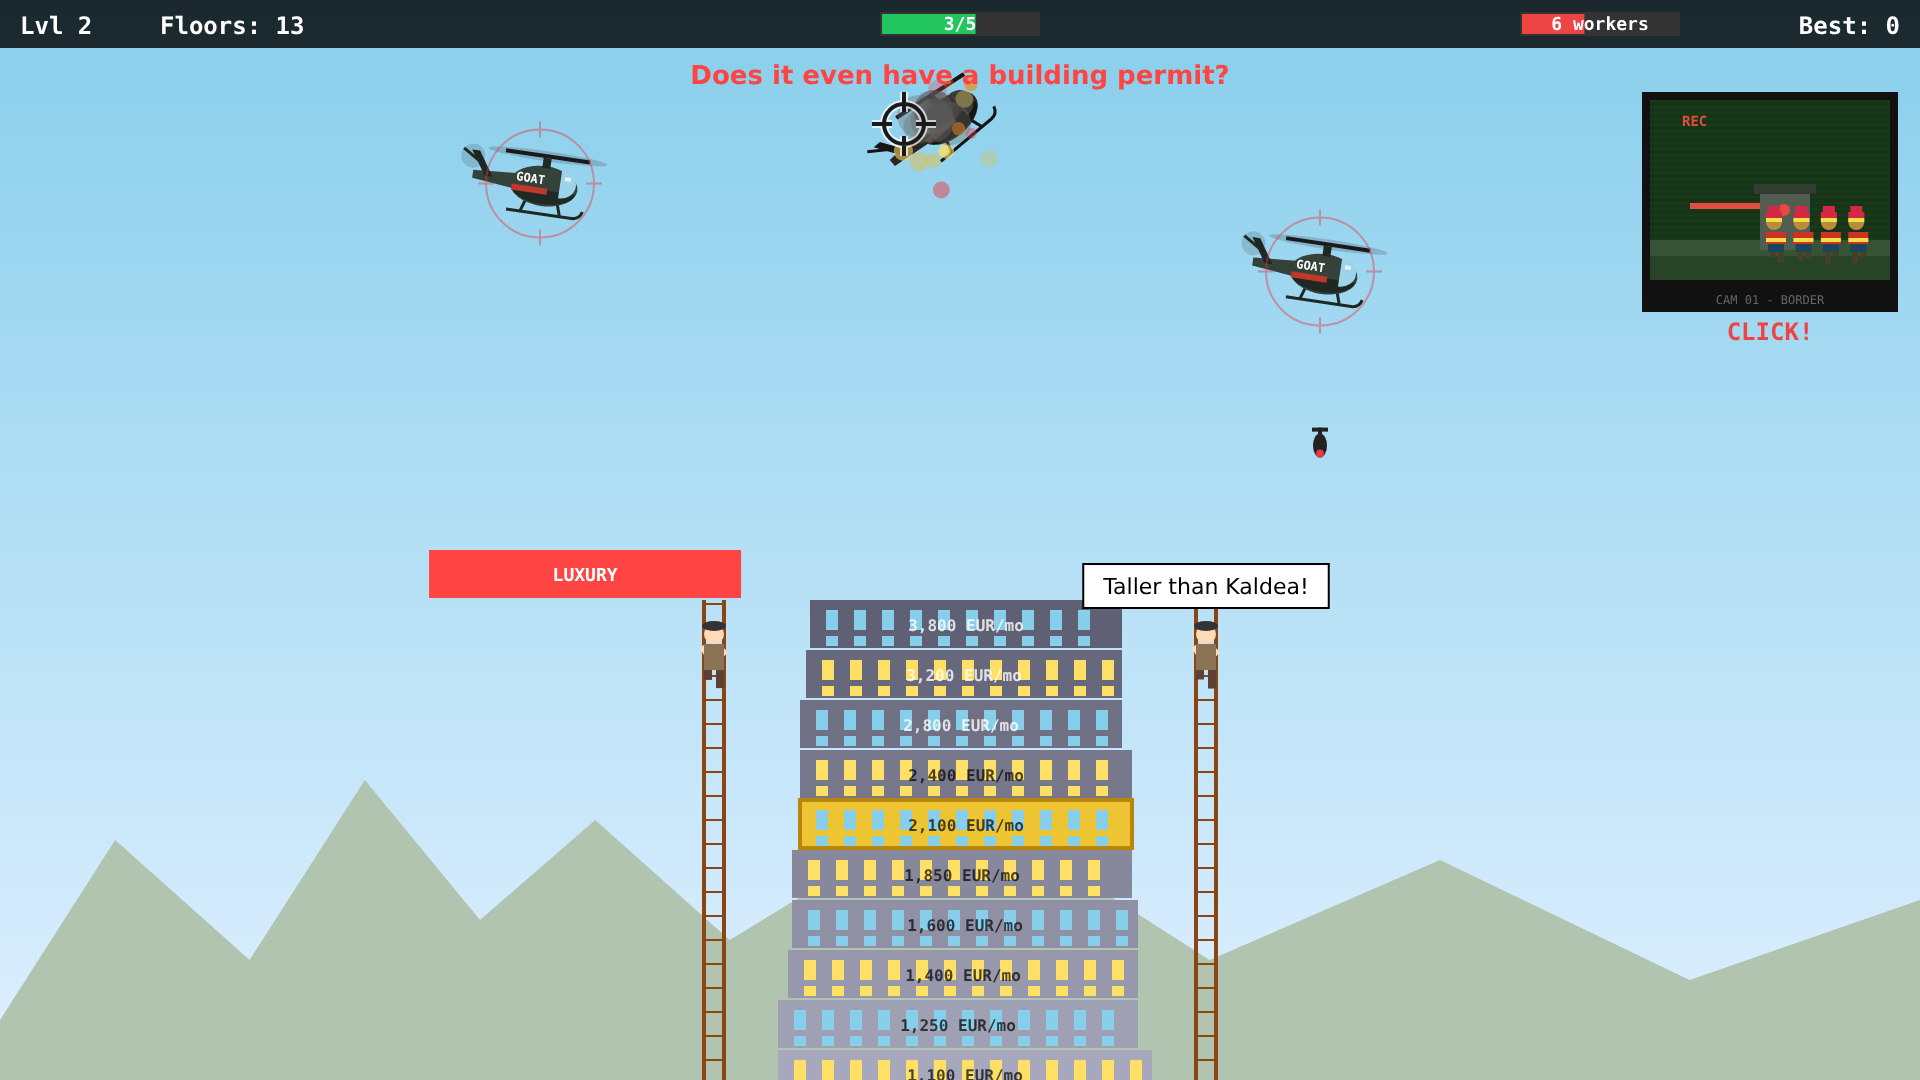
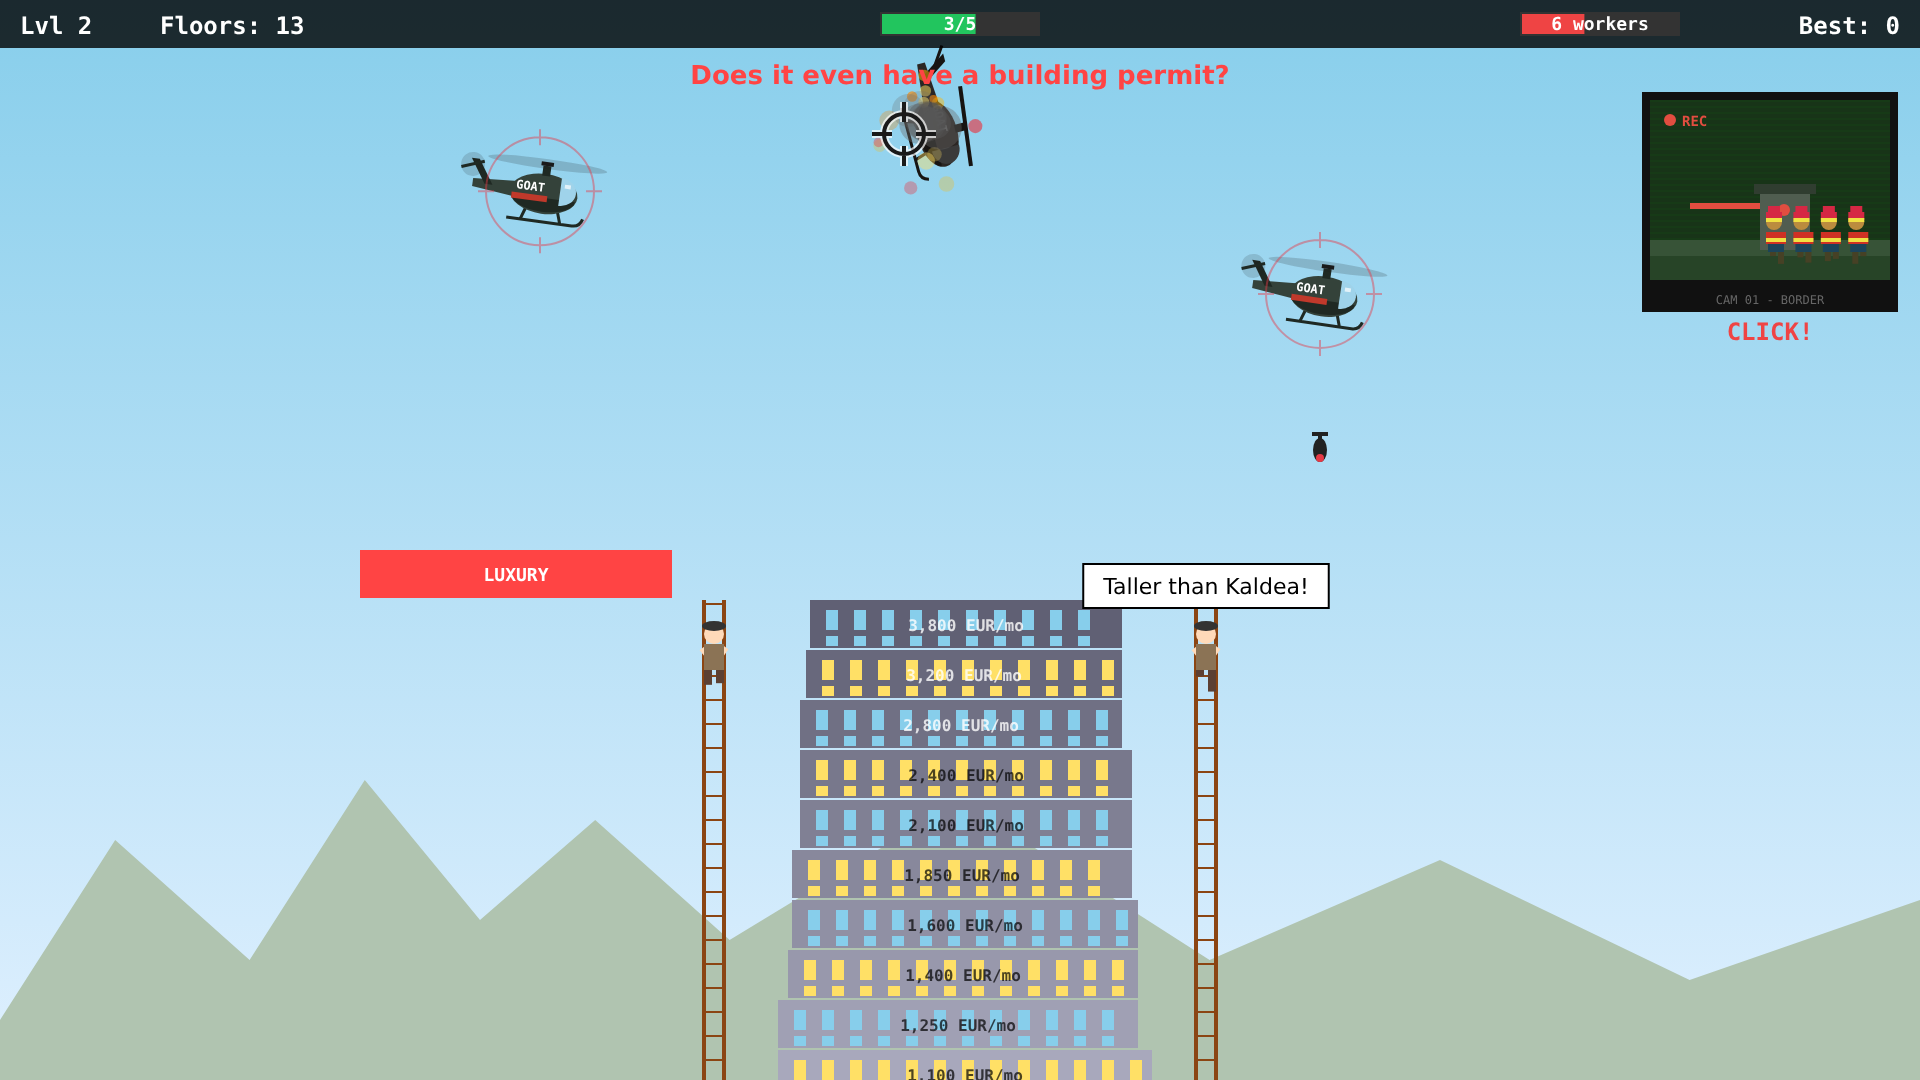
Update heading image

diff --git a/src/render/hud.ts b/src/render/hud.ts
@@ -65,13 +65,19 @@ export function drawHud(ctx: CanvasRenderingContext2D, g: GameData, info: HudInf
   if (playing && g.blocks.length <= 2 && g.frame % 60 < 40) {
     drawPill(ctx, isTouch ? t.placeHintTouch : t.placeHintKey, cx, cy + 42, 12, HUD.hintPlace);
   }
-  if (g.climberHint > 0 && g.frame % 50 < 30) {
+  if (playing && g.climberHint > 0 && g.frame % 50 < 30) {
     drawPill(ctx, isTouch ? t.climberHintTouch : t.climberHintKey, cx, cy - 80, 11, HUD.hintClimbers);
   }
-  if (g.helicopters.some((h) => h.active) && g.blocks.length < 20 && g.collapseTimer === 0 && g.frame % 50 < 30) {
+  if (
+    playing &&
+    g.helicopters.some((h) => h.active) &&
+    g.blocks.length < 20 &&
+    g.collapseTimer === 0 &&
+    g.frame % 50 < 30
+  ) {
     drawPill(ctx, isTouch ? t.heliHintTouch : t.heliHintKey, cx, cy - 37, 11, HUD.hintDanger);
   }
-  if (g.workers <= 3 && g.frame % 40 < 25 && g.convenioTimer <= 0 && g.collapseTimer === 0) {
+  if (playing && g.workers <= 3 && g.frame % 40 < 25 && g.convenioTimer <= 0 && g.collapseTimer === 0) {
     drawPill(ctx, g.workers <= 0 ? t.noWorkers : t.fewWorkers(g.workers), cx, cy, 18, HUD.hintDanger, HUD.pillBgStrong);
   }
 

diff --git a/src/render/index.ts b/src/render/index.ts
@@ -1,6 +1,6 @@
 import { CANVAS_H, CANVAS_W } from "../game/constants";
 import type { GameData } from "../game/types";
-import { drawAirborne } from "./actors";
+import { drawAirborne, drawClimberQuotes } from "./actors";
 import { drawBorderCamera } from "./border";
 import type { HudInfo } from "./hud";
 import { drawAim, drawHud, drawPoliticianQuote } from "./hud";
@@ -21,6 +21,10 @@ export function render(ctx: CanvasRenderingContext2D, g: GameData, info: RenderI
   ctx.restore();
 
   drawSpectators(ctx, g);
+  ctx.save();
+  ctx.translate(0, g.scrollY);
+  drawClimberQuotes(ctx, g);
+  ctx.restore();
   drawAirborne(ctx, g);
   drawPoliticianQuote(ctx, g);
   drawBorderCamera(ctx, g, info.t, info.isTouch);

diff --git a/src/render/actors.ts b/src/render/actors.ts
@@ -282,8 +282,13 @@ export function drawClimber(ctx: CanvasRenderingContext2D, c: Climber, ropeTop: 
   ctx.arc(x, y + 4, 5, Math.PI, 0);
   ctx.fill();
   ctx.restore();
+}
 
-  if (c.state === "working" && c.quoteTimer > 0) {
-    drawBubble(ctx, c.quote, x, y - 26, BUBBLE_SMALL, Math.min(1, c.quoteTimer / 20));
+/** Climbers' protest bubbles, drawn after the spectators so nothing covers them. Tower coordinates. */
+export function drawClimberQuotes(ctx: CanvasRenderingContext2D, g: GameData) {
+  for (const c of g.climbers) {
+    if (c.state === "working" && c.quoteTimer > 0) {
+      drawBubble(ctx, c.quote, c.x, c.y - 26, BUBBLE_SMALL, Math.min(1, c.quoteTimer / 20));
+    }
   }
 }
